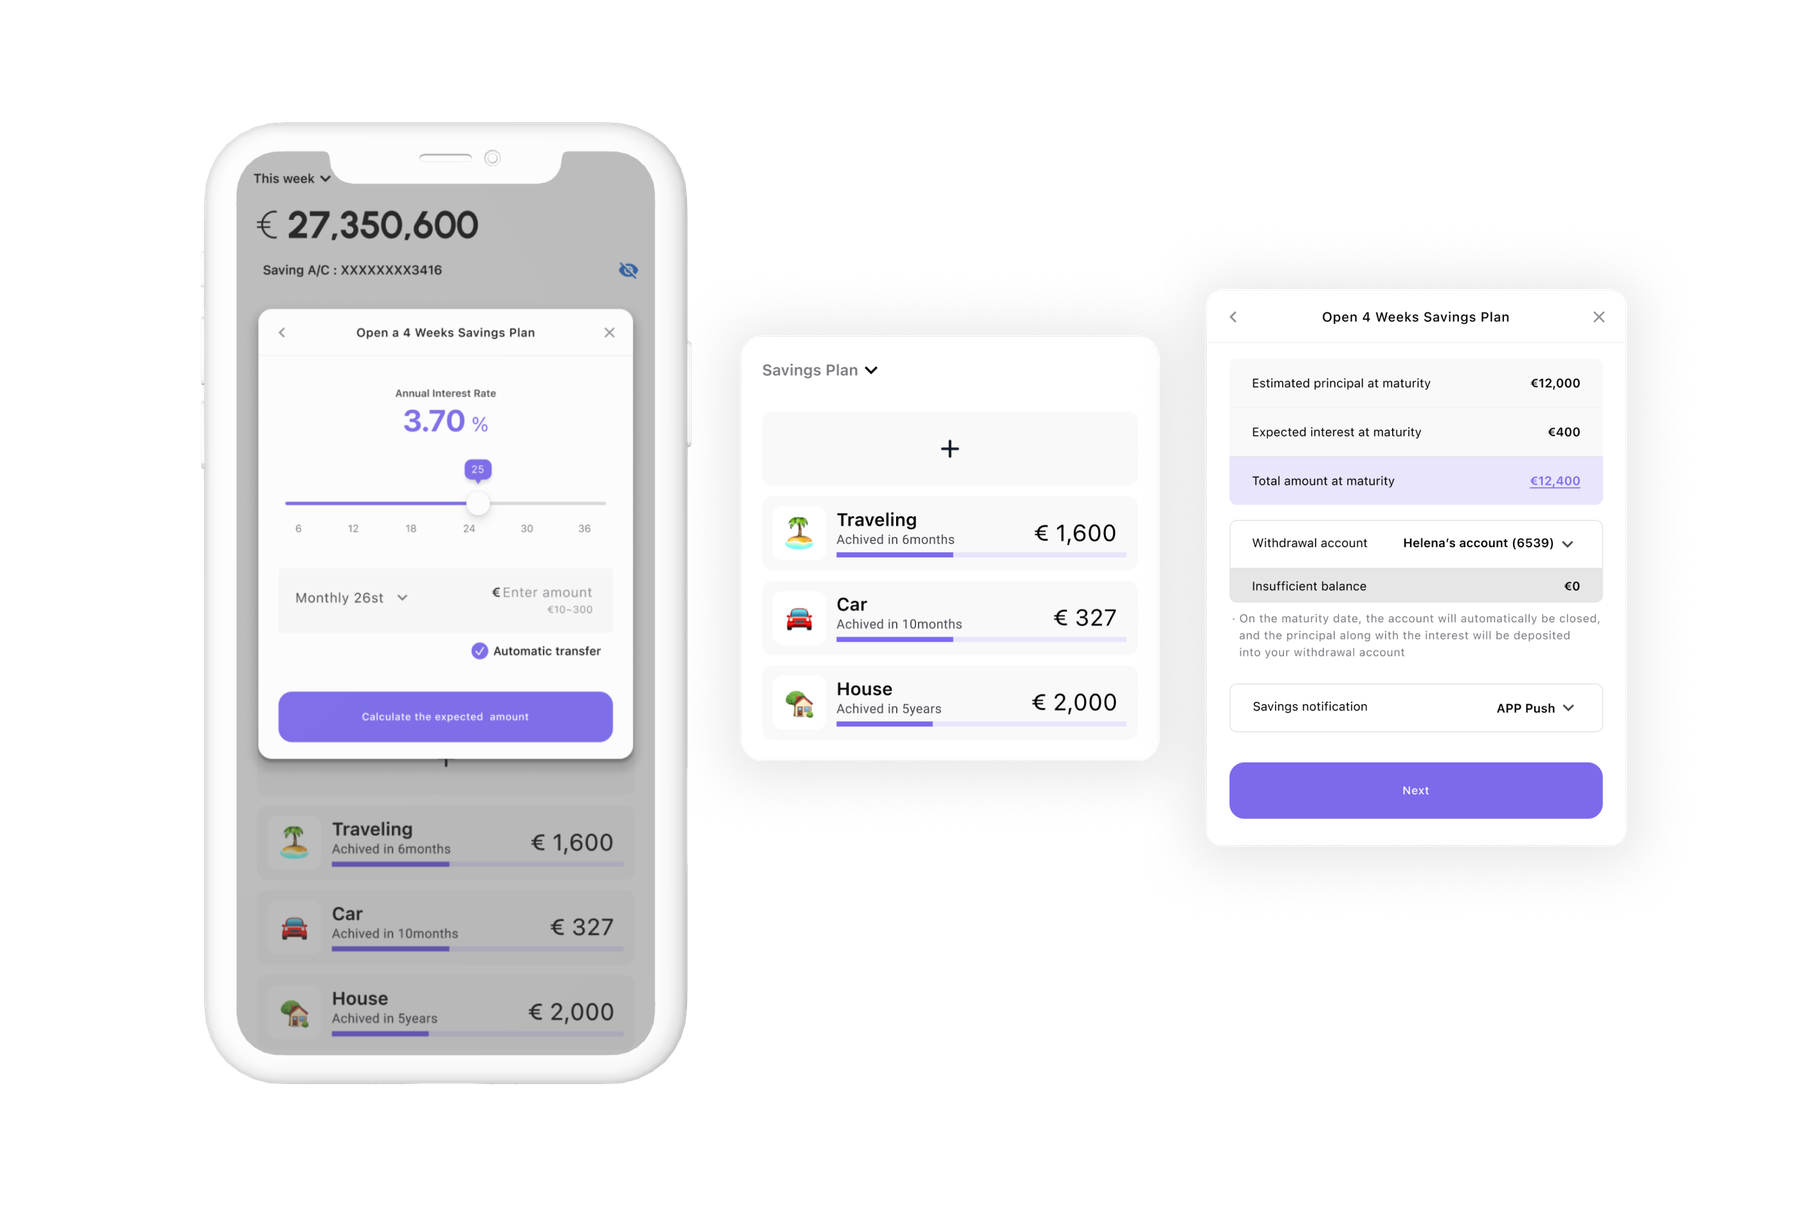
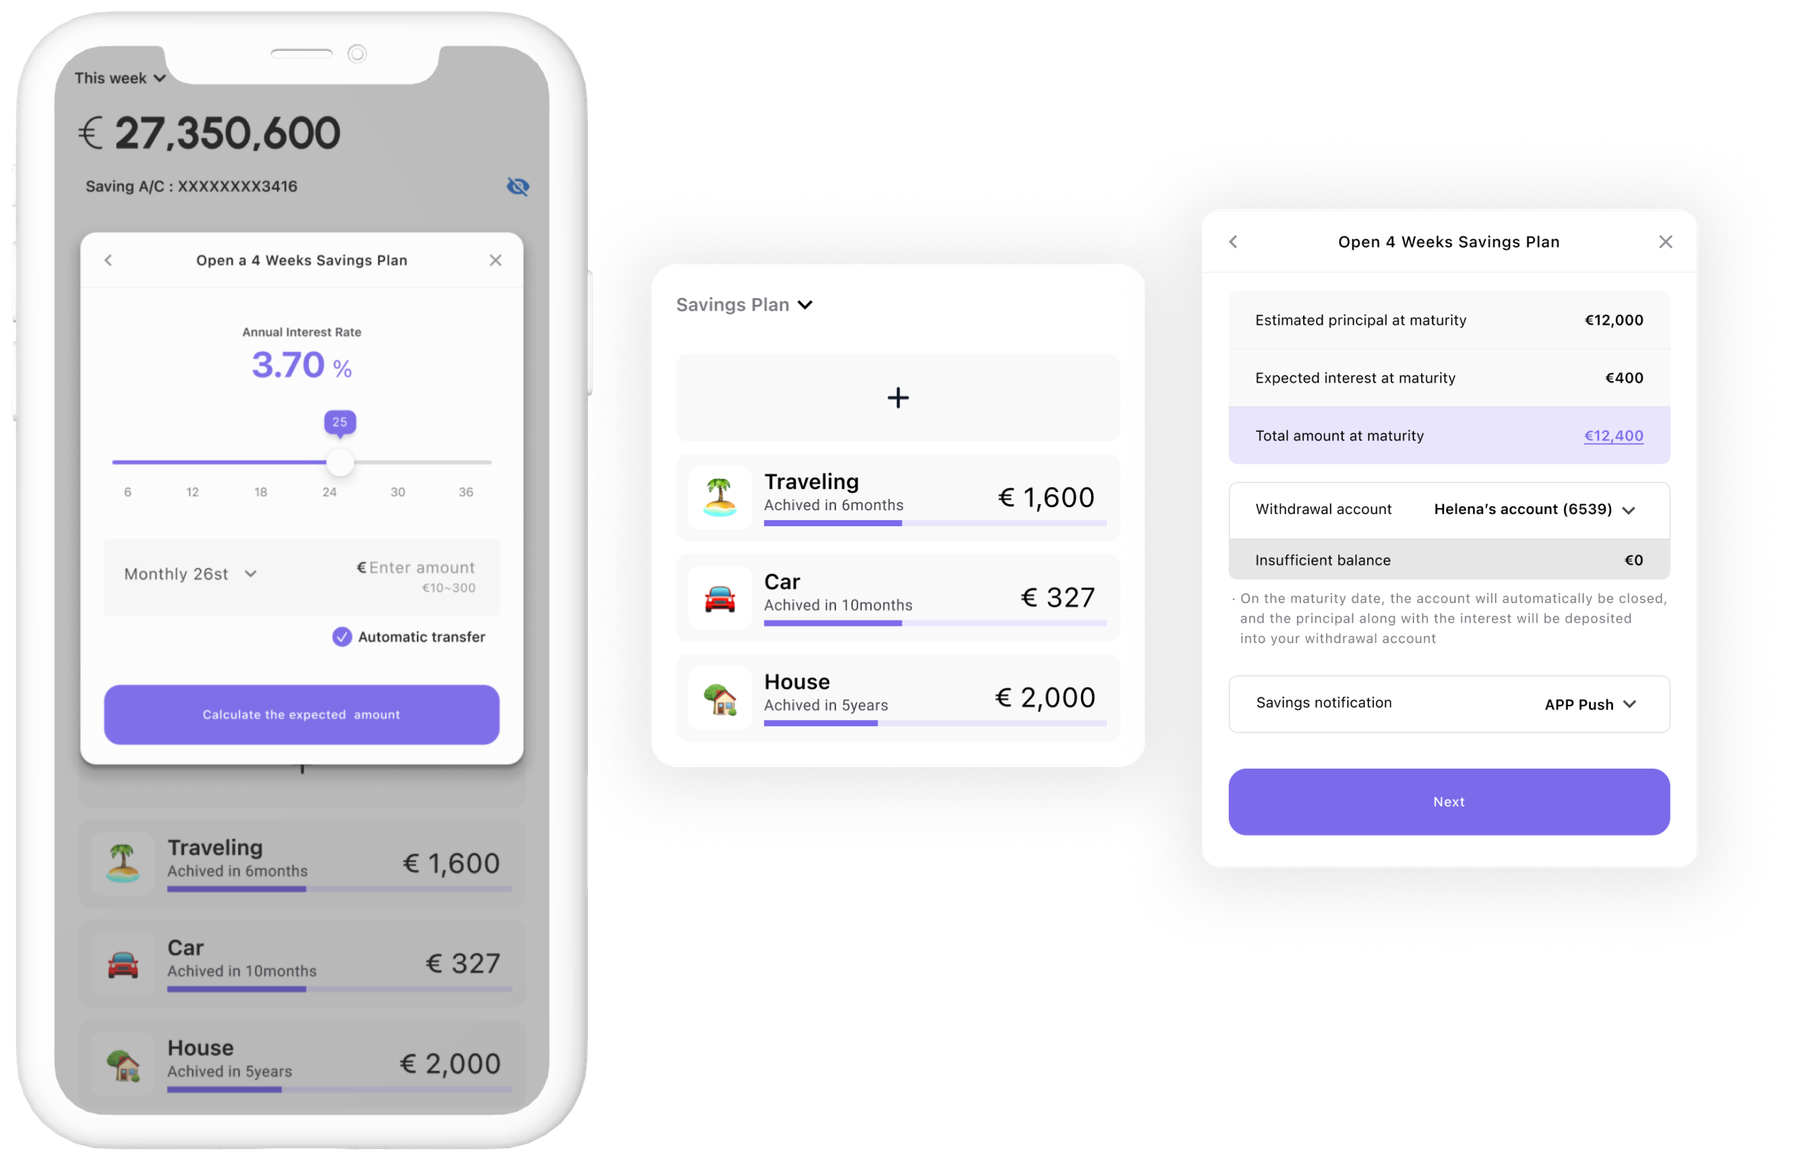
Zoom in savings plan image (trim transparent margin only) and remove gray bg for this instance

diff --git a/project-demo-pumkin-finance-dashboard.html b/project-demo-pumkin-finance-dashboard.html
@@ -285,7 +285,7 @@
       As a self-directed concept, Mochi Pay's results so far come from prototype testing rather than
       production data. Update this section with real usability-testing results once you have them.
     </p>
-    <div class="media-light">
+    <div class="media-light" style="background: transparent; padding: 0;">
       <img src="images/pumkin-savings-plan.png" alt="4주 저축 플랜 설정 및 예상 금액 확인 화면">
     </div>
   </section>
